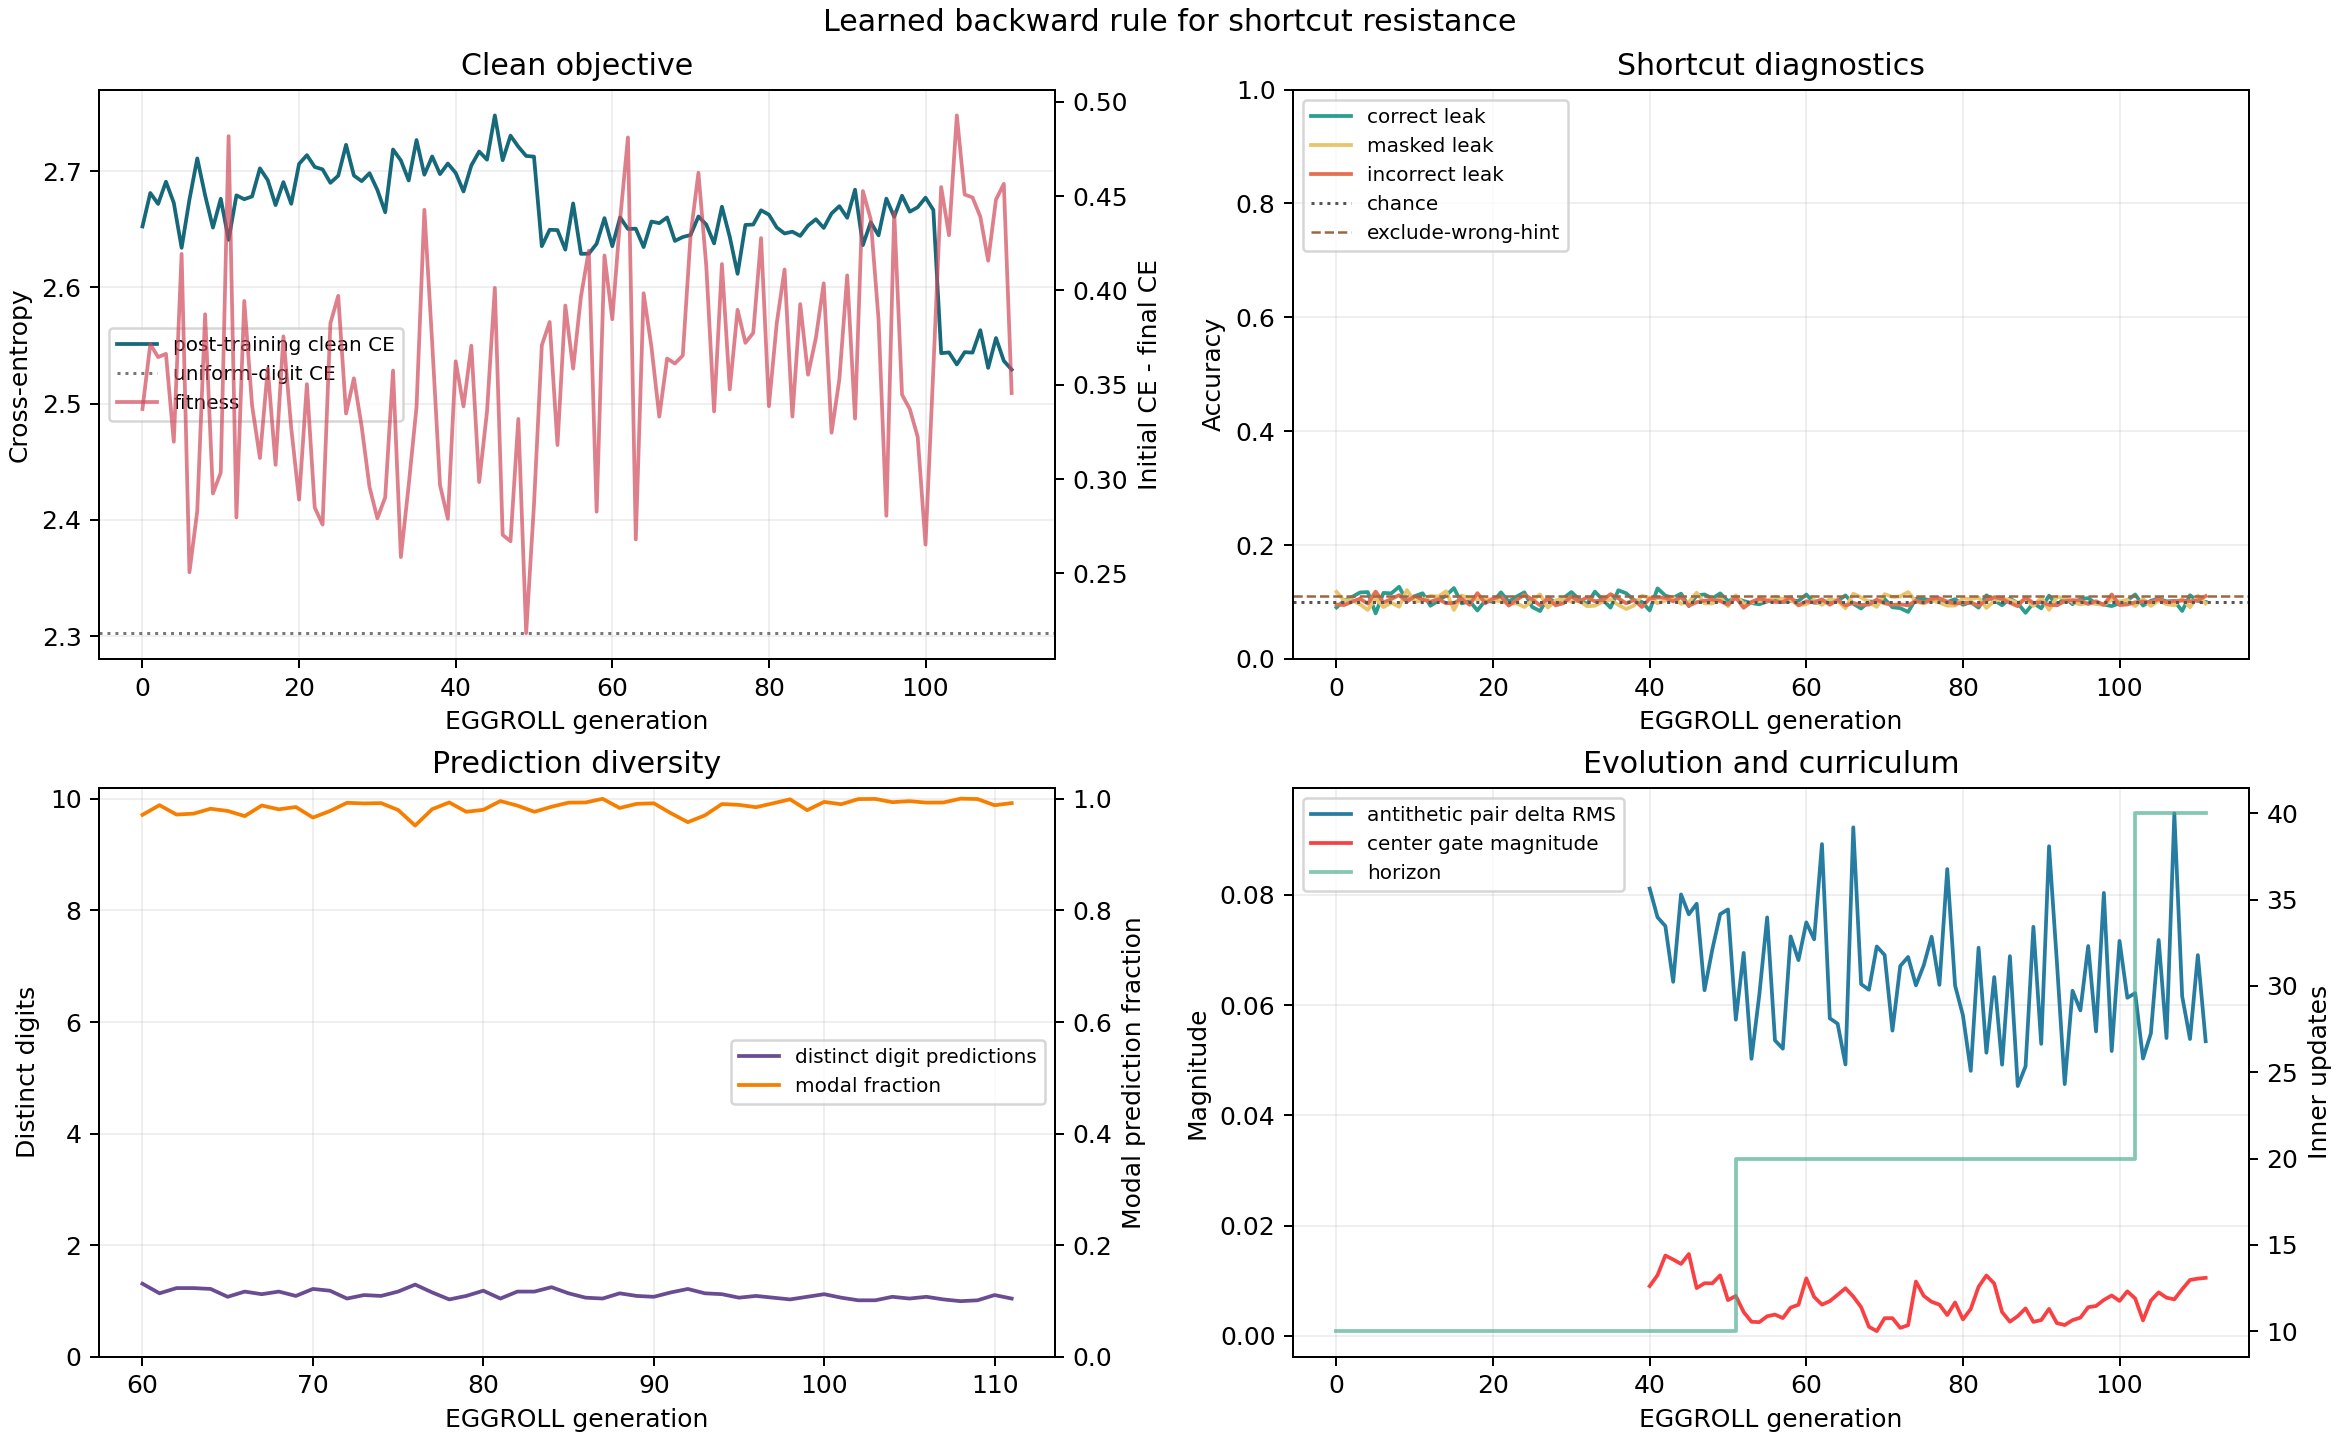
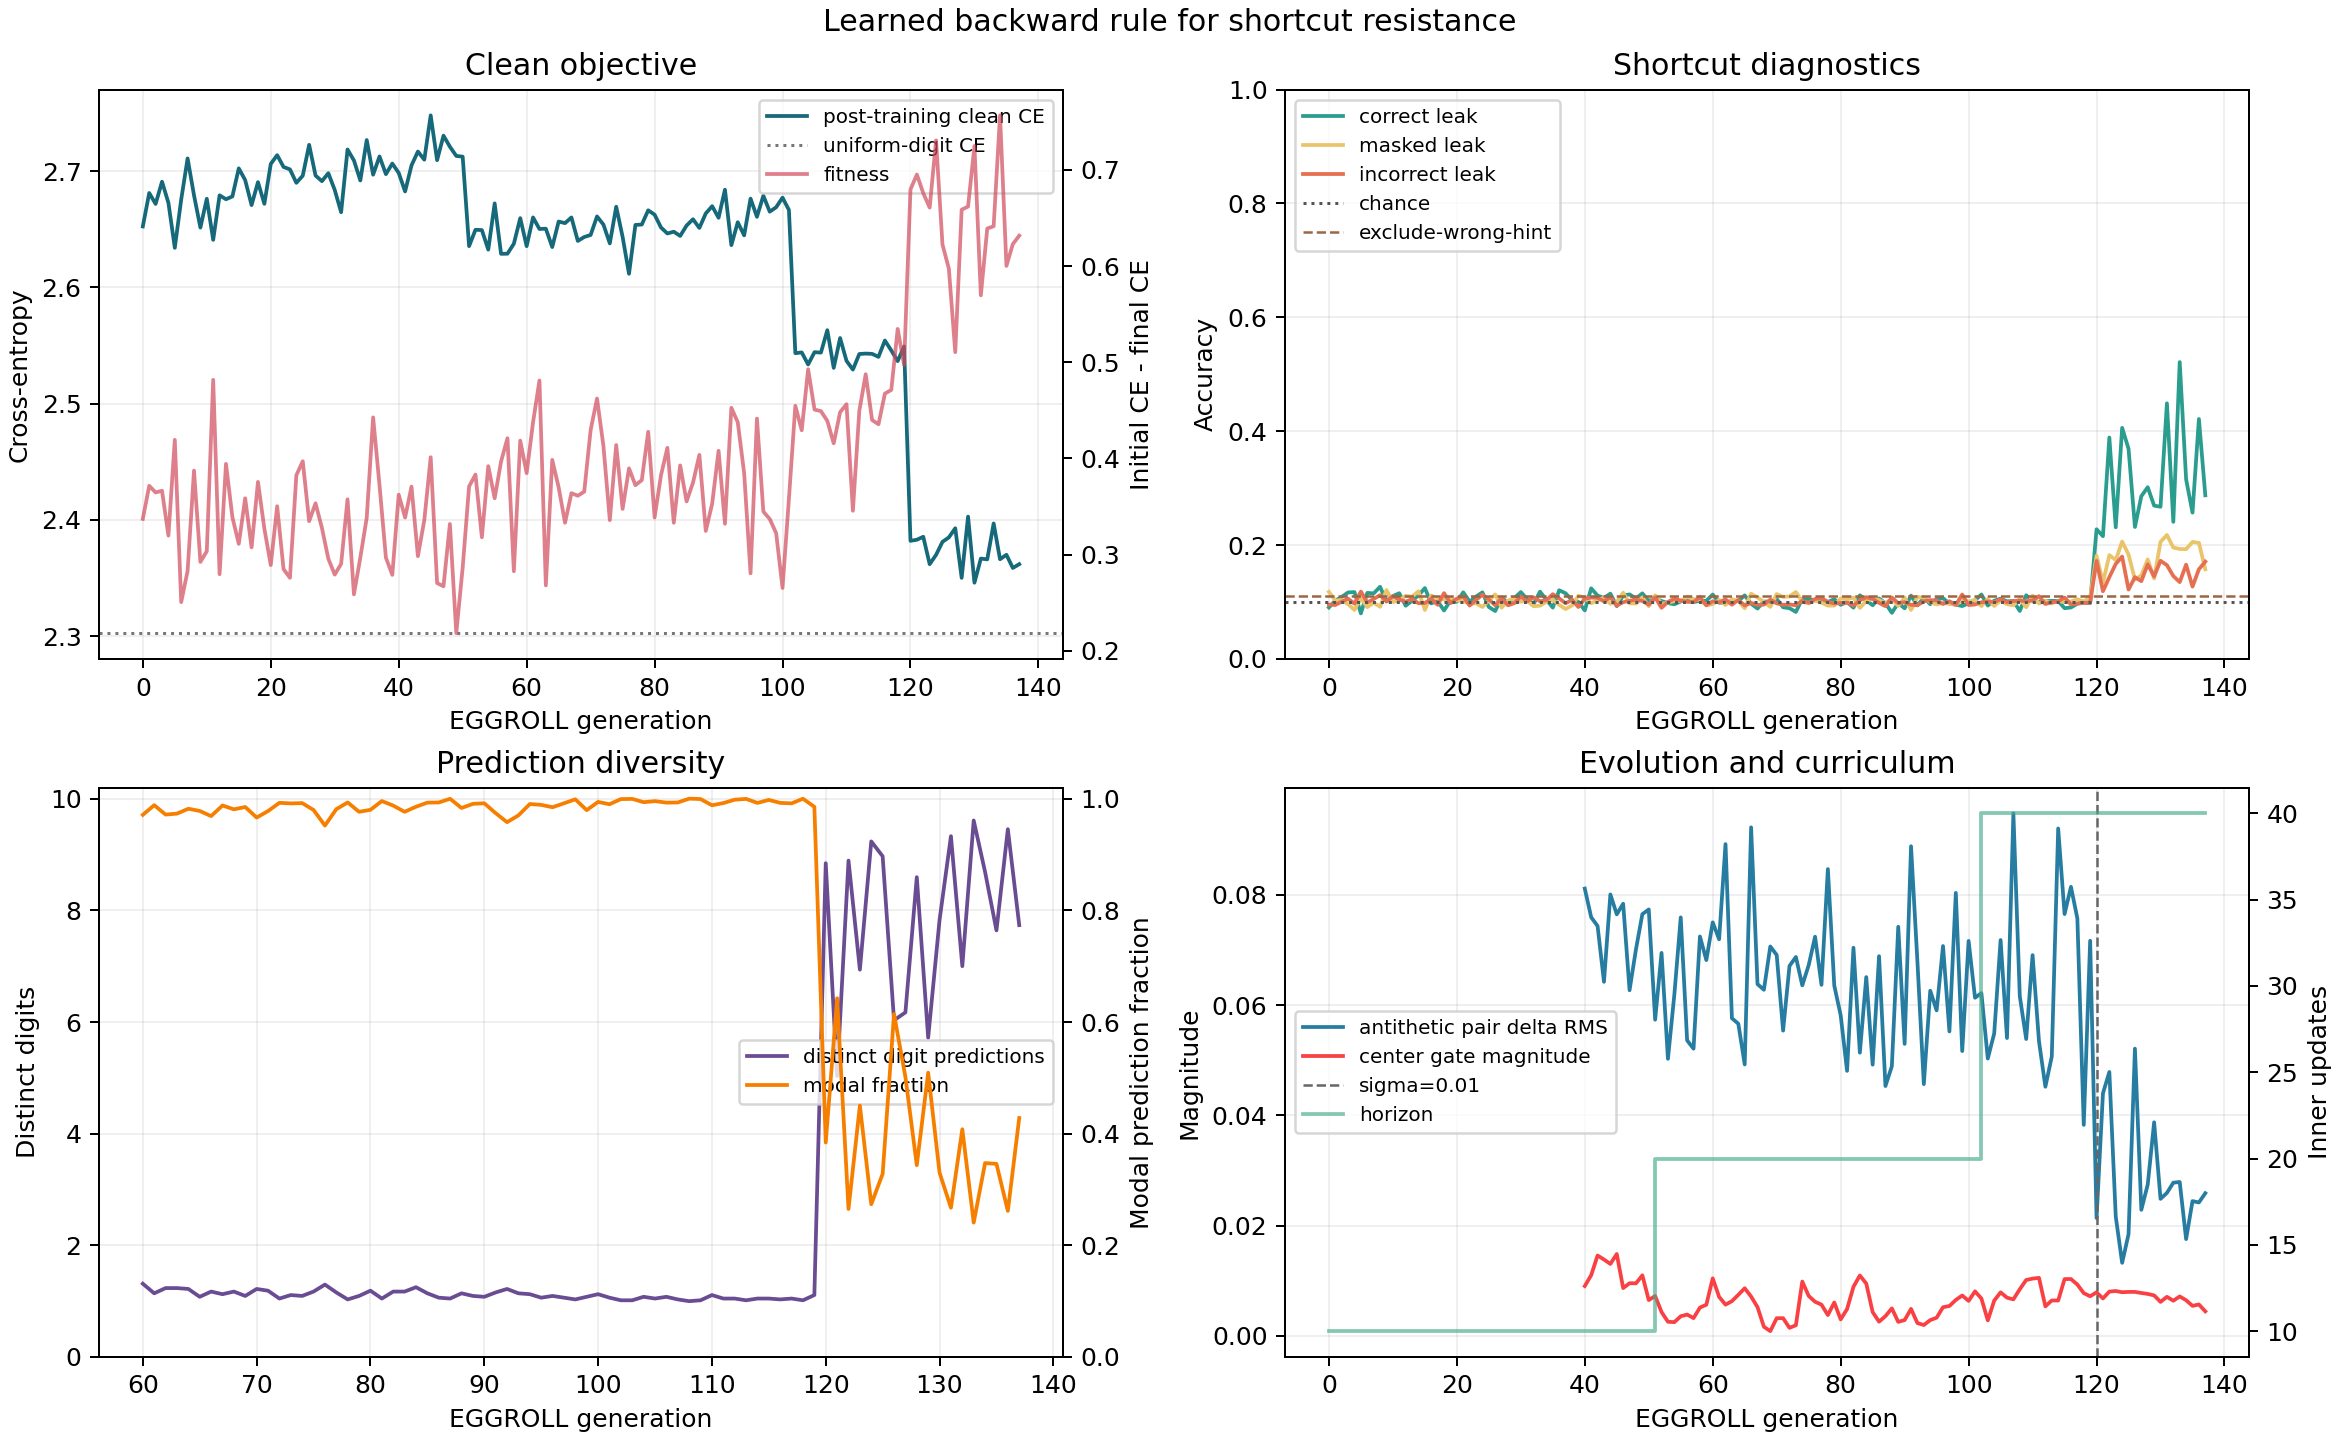
Record local EGGROLL continuation

diff --git a/src/list_sorting_transformer/shortcut_credit_plot.py b/src/list_sorting_transformer/shortcut_credit_plot.py
@@ -192,6 +192,19 @@ def plot_chained_metrics(
         drawstyle="steps-post",
         alpha=0.65,
     )
+    sigma_generations, sigma_values = _series(rows, "search/sigma")
+    previous_sigma: float | None = None
+    for generation, sigma in zip(sigma_generations, sigma_values):
+        if sigma == previous_sigma:
+            continue
+        eggroll_axis.axvline(
+            generation,
+            color="#666666",
+            linestyle="--",
+            linewidth=1.0,
+            label=f"sigma={sigma:g}",
+        )
+        previous_sigma = sigma
     eggroll_axis.set_title("Evolution and curriculum")
     eggroll_axis.set_ylabel("Magnitude")
     horizon_axis.set_ylabel("Inner updates")

diff --git a/tests/test_shortcut_credit_plot.py b/tests/test_shortcut_credit_plot.py
@@ -62,6 +62,7 @@ def test_plot_accepts_metrics_added_in_later_segments(tmp_path: Path) -> None:
             "clean/incorrect_accuracy_mean": 0.11,
             "clean/unique_value_predictions_mean": 3.0,
             "clean/prediction_mode_fraction_mean": 0.7,
+            "search/sigma": 0.01,
         },
     ]
     output = tmp_path / "progress.png"

diff --git a/experiments/learned_backward_shortcuts/PROGRESS.md b/experiments/learned_backward_shortcuts/PROGRESS.md
@@ -453,3 +453,58 @@ reducing antithetic pair separation by `25%` and halving the magnitude of the
 paper-style EGGROLL centre update. The `sigma=0.08` continuation was stopped
 at its durable generation-120 checkpoint; generations 121-124 after that
 checkpoint are excluded from the authoritative lineage.
+
+The local-search continuation is:
+
+- Run:
+  [`learned-backward-p64-sigma001-resume120-seed7`](https://wandb.ai/wobrob101/list-sorting-learned-backward/runs/1mwbgpqh)
+- Source: the `sigma=0.08` generation-120 checkpoint.
+- First generation clean CE / accuracy: `2.3819 / 17.7%`.
+- Masked / incorrect-hint accuracy: `18.1% / 17.2%`.
+- Distinct predicted digits / modal fraction: `8.84 / 10` and `38.4%`.
+- Antithetic pair-difference RMS: `0.0214`.
+- Centre update RMS relative to centre RMS: `0.59%`.
+
+The first local generation therefore preserves a nonzero estimator and centre
+update while immediately eliminating the population-wide prediction collapse.
+Multiple generations are required before this can be called evolutionary
+progress rather than improved candidate locality.
+
+Across the first ten authoritative local-search generations, 120-129:
+
+- Mean clean CE / accuracy: `2.3794 / 15.8%`.
+- Mean masked / incorrect-hint accuracy: `16.6% / 15.0%`.
+- Mean correct-leak accuracy: `29.3%`.
+- Mean distinct predicted digits / modal fraction:
+  `7.44 / 10` and `43.1%`.
+- Mean antithetic pair-difference RMS: `0.0308`.
+- Mean centre-update/centre RMS: `0.81%` per generation.
+
+This is substantially better than the collapsed `sigma=0.08` population, but
+it does **not** yet beat ordinary biased Adam at horizon 40. The earlier
+single-run Adam diagnostic reached `18.6%` balanced clean accuracy and clean
+CE `2.3394`; the local learned-backward population reached `15.8%` and
+`2.3794`. Horizon 40 is also before the baseline's full shortcut transition,
+so the decisive comparison remains horizon 80, where ordinary Adam's
+incorrect-hint accuracy falls to zero.
+
+Changing sigma also shifted the candidate-objective distribution. Carrying
+the old `sigma=0.08` clean-loss EMA forward made its gradual relaxation look
+like repeated progress, which would delay the horizon curriculum. At the
+generation-130 checkpoint, plateau state was therefore recomputed using only
+the ten `sigma=0.01` generations:
+
+- Recomputed EMA objective: `-2.3810`.
+- Best EMA objective: `-2.3806`.
+- Stale generations: `5`.
+- Every non-plateau checkpoint field and backward-rule tensor was verified
+  identical to the source checkpoint.
+
+The corrected continuation is:
+
+- Run:
+  [`learned-backward-p64-sigma001-plateau-resume130-seed7`](https://wandb.ai/wobrob101/list-sorting-learned-backward/runs/4638c6ep)
+- Migrated checkpoint:
+  `checkpoint_000130_sigma001_plateau.pt`.
+- Generations 130-132 from the pre-migration process are superseded by this
+  continuation.
